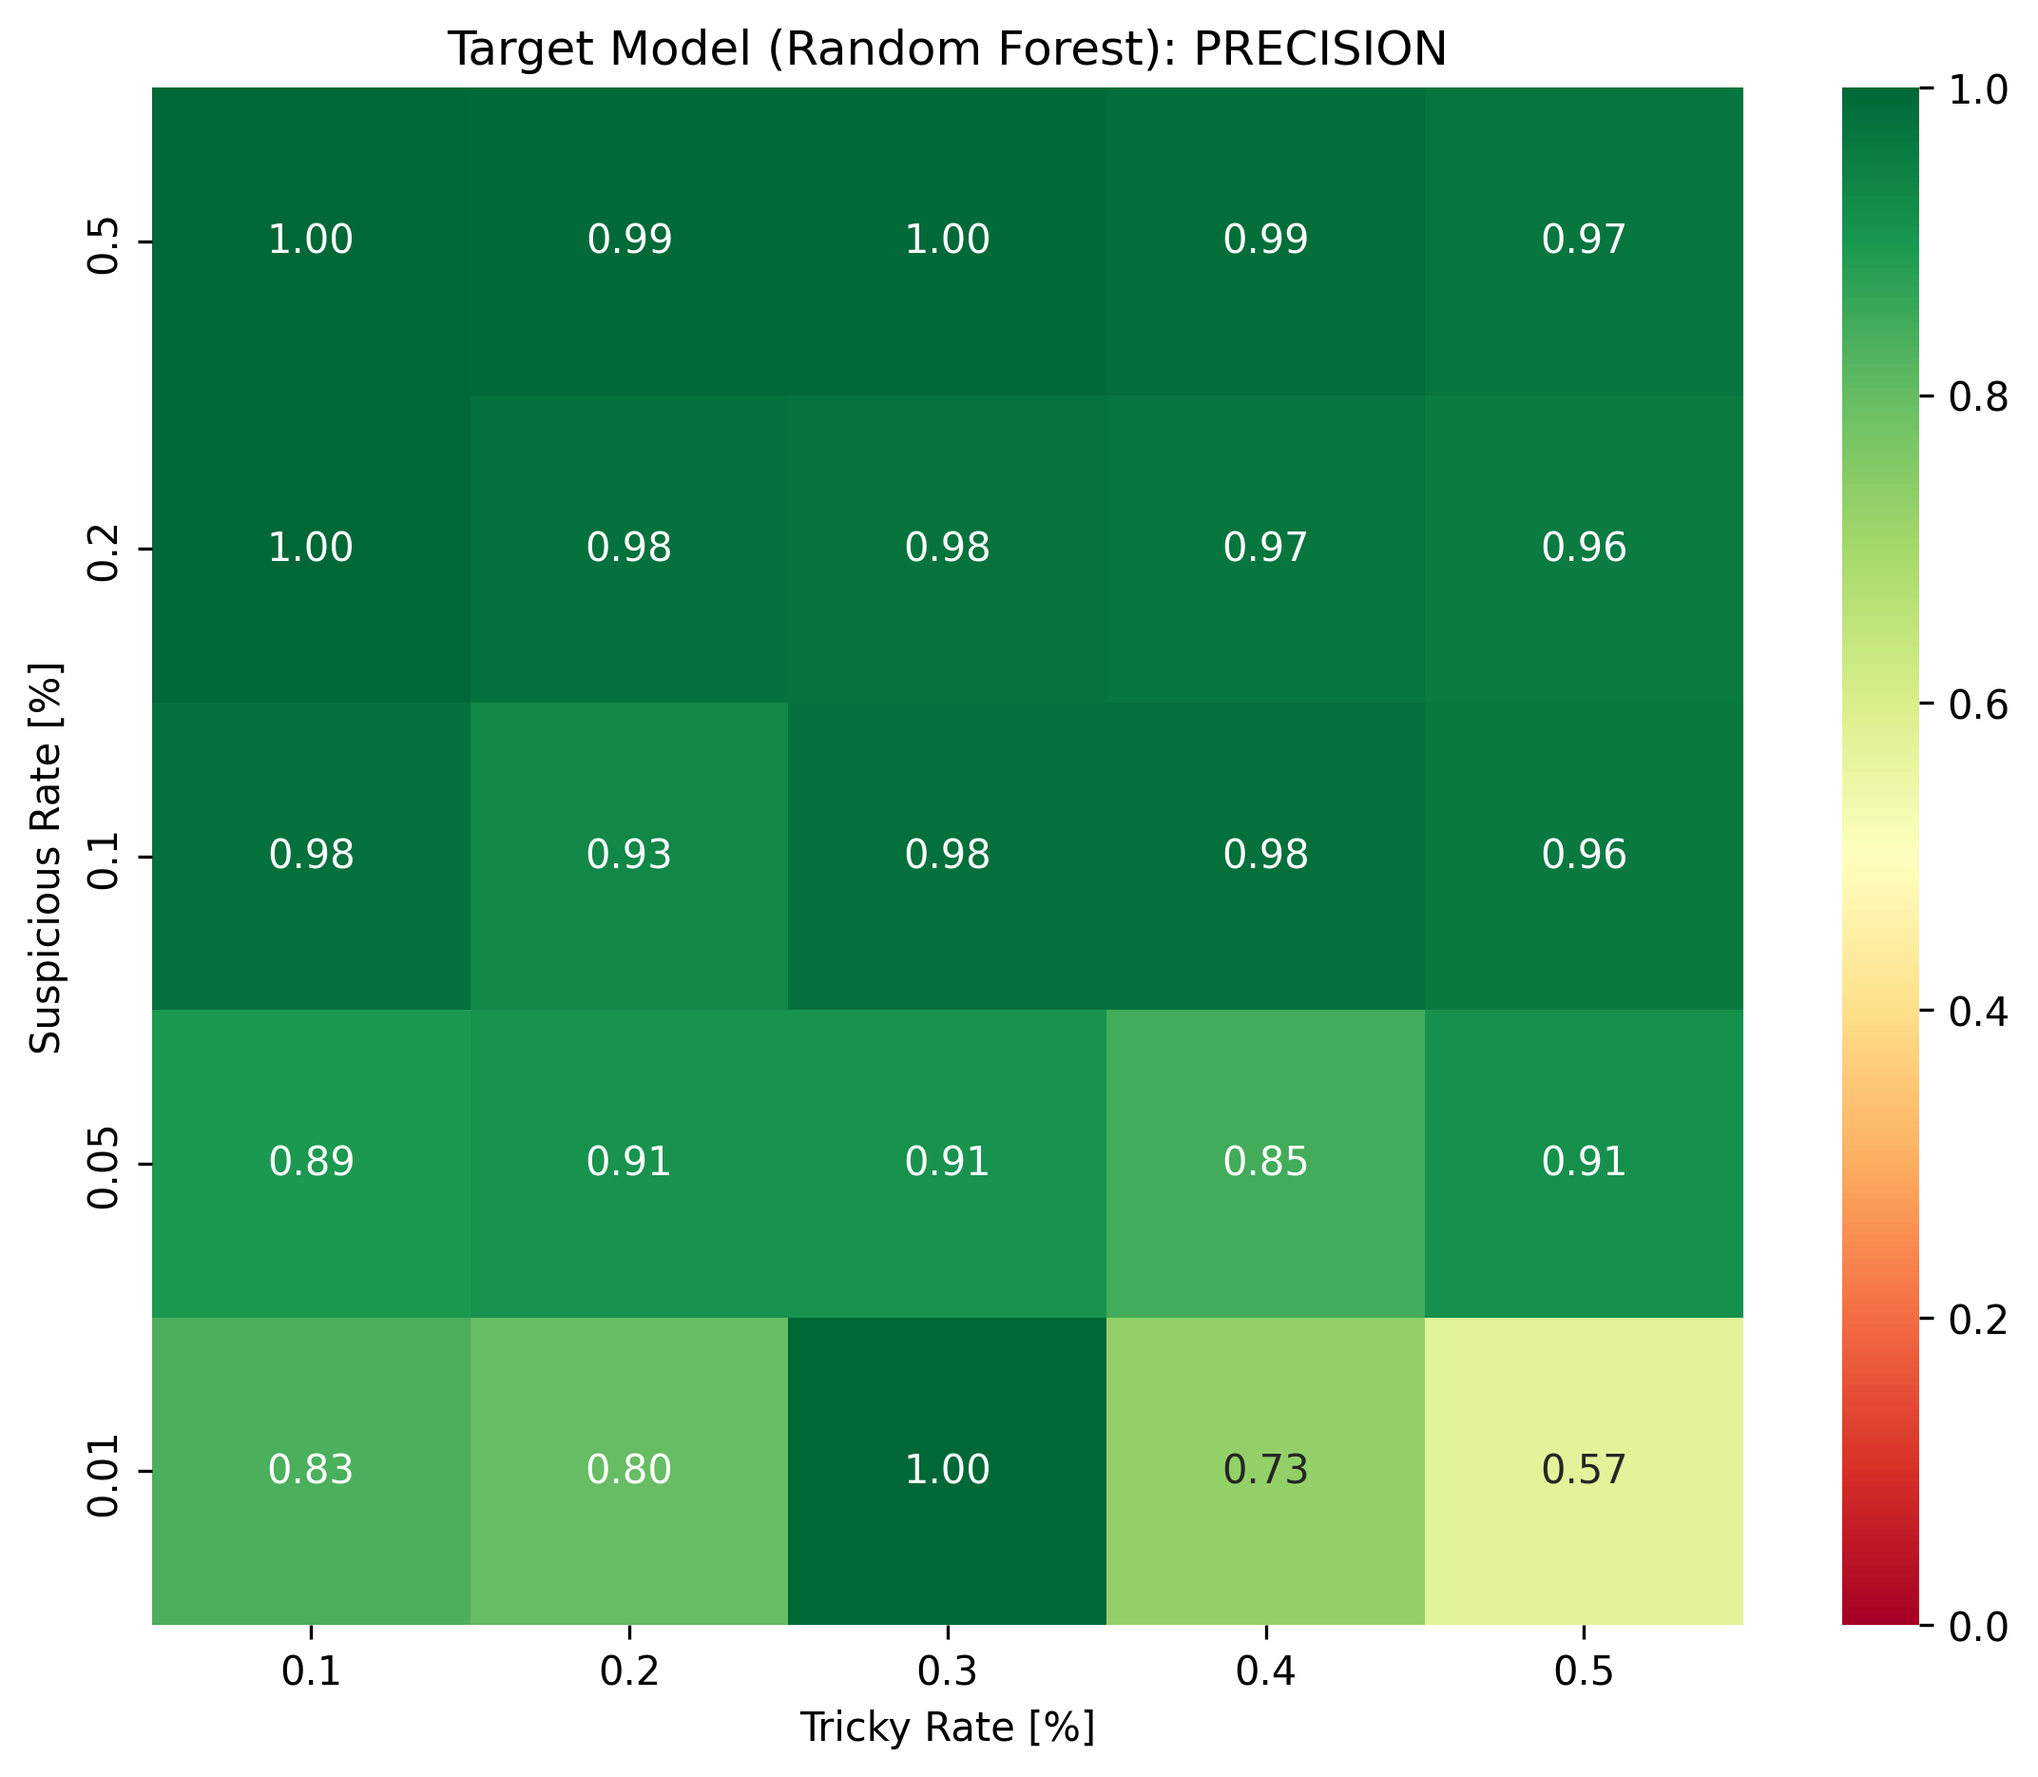
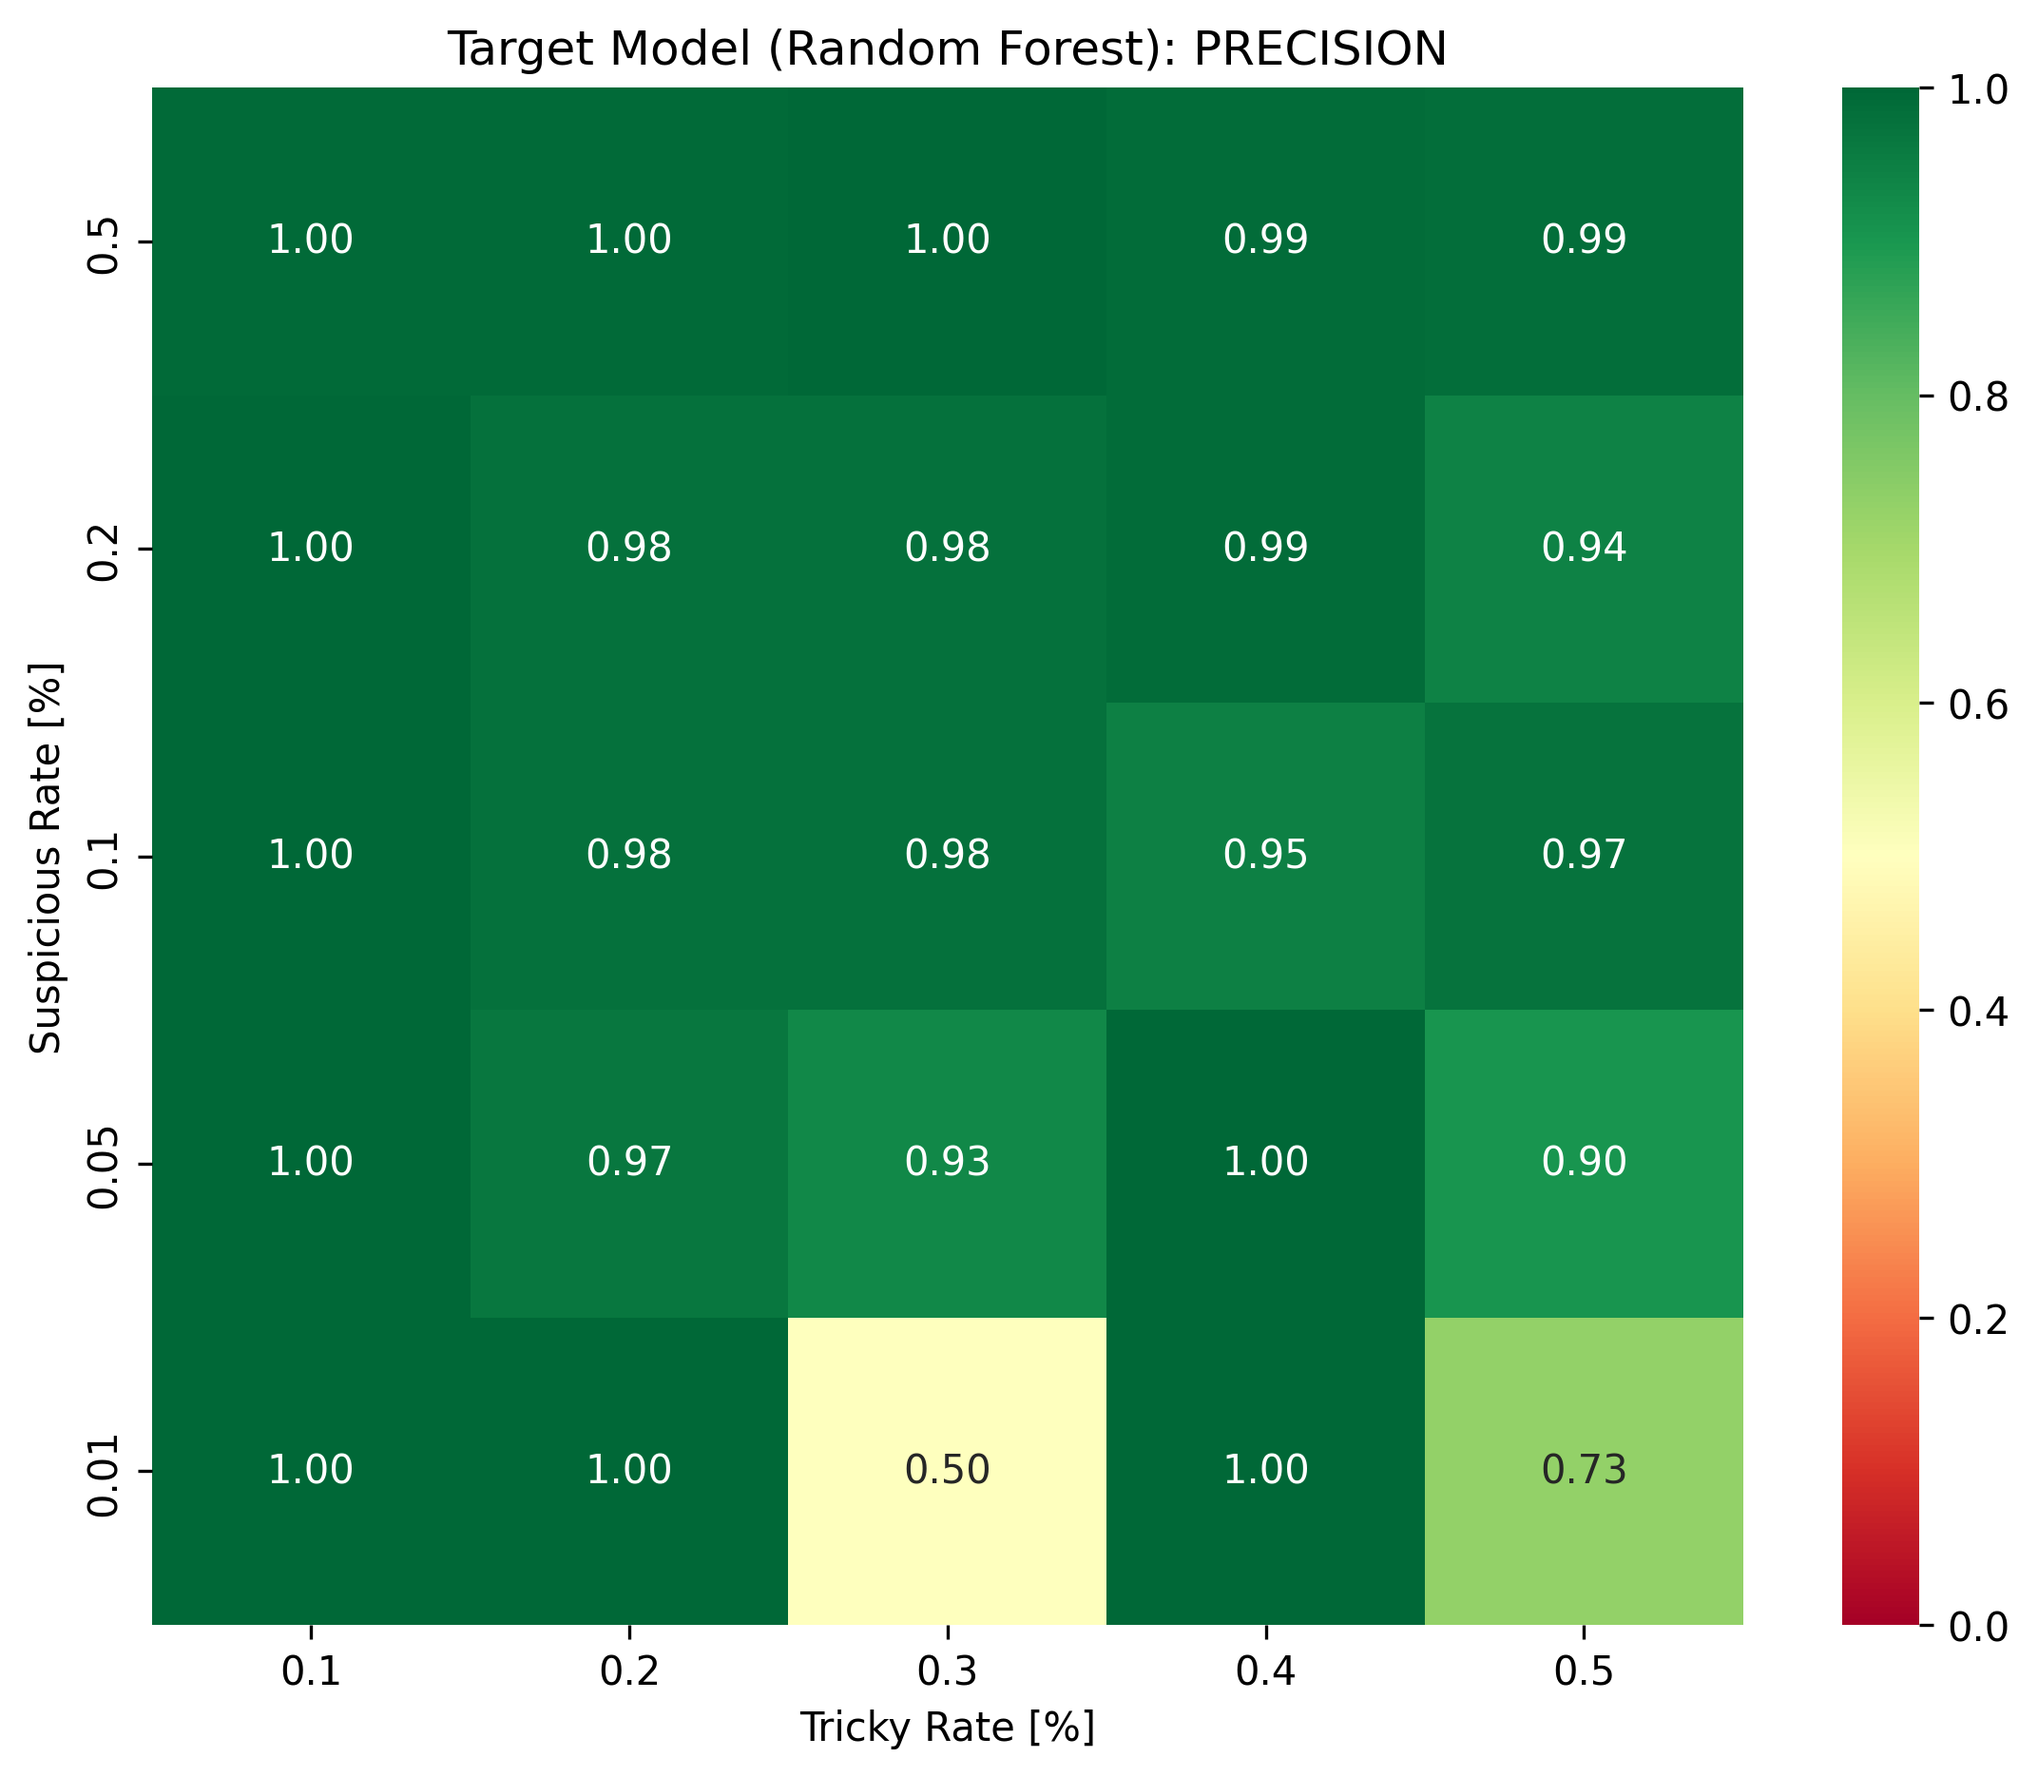
fix: update data handling

diff --git a/plotter.py b/plotter.py
@@ -64,15 +64,15 @@ def run_simulation_step(models, impostor_rate, tricky_rate, samples=500):
         rand = np.random.random()
         if rand < impostor_rate:
             pack = utilities.generate_random_suspicious()
-            data.append(pack["data"])
+            data.append(pack)
             y_true.append(1)
         elif rand < (impostor_rate + tricky_rate):
             pack = utilities.generate_random_tricky()
-            data.append(pack["data"])
+            data.append(pack)
             y_true.append(0)
         else:
             pack = utilities.generate_random_safe()
-            data.append(pack["data"])
+            data.append(pack)
             y_true.append(0)
 
     df = pd.DataFrame(data)
